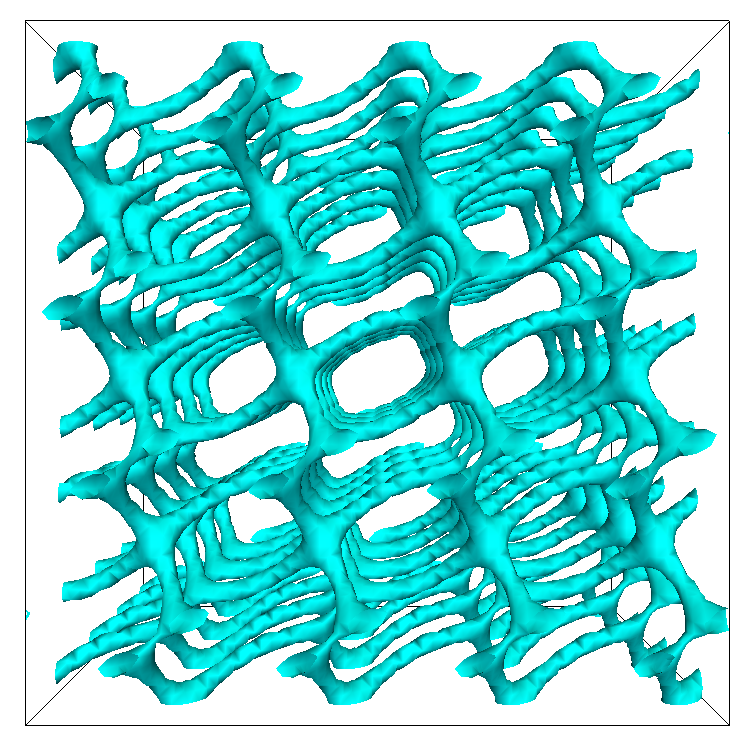
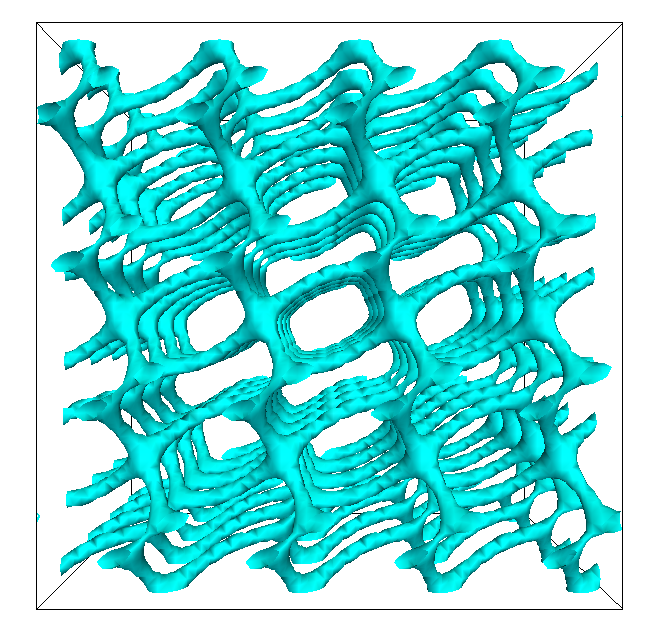
(Partly) updated pictures
git-svn-id: https://ccpforge.cse.rl.ac.uk/svn/ludwig/trunk@1805 40876441-3496-0410-a613-a2fca35b2ae2

diff --git a/papers/bprheo/bprheo.tex b/papers/bprheo/bprheo.tex
@@ -425,9 +425,9 @@ reconnect further downstream forming a periodically recurring pattern with
 recurrence time $\tau_F=1/\gd$ in flow direction.
 
 \begin{figure}[htpb]
-\includegraphics[width=0.4\textwidth]{disc-160k_run902.png}
-\includegraphics[width=0.4\textwidth]{disc-164k_run902.png}
-\includegraphics[width=0.4\textwidth]{disc-165k_run902.png}
+\includegraphics[width=0.41\textwidth]{disc-160k_run902.png}
+\includegraphics[width=0.41\textwidth]{disc-164k_run902.png}
+\includegraphics[width=0.41\textwidth]{disc-165k_run902.png}
 \caption{Disclination network of BPII in shear flow: 
 The pictures show a typical sequence of snapshots in the steady state 
 at $\gd=1.56\e{-4}$ and time steps $t=1.60, 1.64,1.65\e{5}$. The velocity 
@@ -814,10 +814,10 @@ were identical to the smaller run with 8 unit cells. The shear rate was $\gd=7.8
 
 \begin{figure}[htpb]
 %\includegraphics[width=0.4\textwidth]{dir+z-300k_run916.png}
-\includegraphics[width=0.4\textwidth]{dir+z-301k_run916.png}
-\includegraphics[width=0.4\textwidth]{dir+z-302k_run916.png}
+%\includegraphics[width=0.4\textwidth]{dir+z-301k_run916.png}
+\includegraphics[width=0.4\textwidth]{dir3d-z-302k_run916.png}
 \caption{Director field of BPI at high shear rate: The pictures show a slice 
-of $L_x\times L_y = 64\times64$ lattice sites along the vorticity direction 
+of $L_x\times L_y \times L_Z= 32\times32\times 32$ lattice sites along the vorticity direction 
 with the flow/gradient direction oriented along the horizontal/vertical axis. 
 The colour code gives the magnitude of the in-plane component of the director field. 
 The data is translationally invariant in vorticity direction.}
@@ -840,6 +840,13 @@ Interestingly the critical shear rate for the break-up lies in the same
 window as that of transition between BPII-1 and BPII-2, 
  $3.125\e{-4}\le\gd_c\le 6.25\e{-4}$ and occurs at similar 
 Ericksen numbers ${\it Er}\simeq 10$.
+
+\subsection{Transition to 1D Uniaxial Twist}
+
+
+
+\subsection{Uncoiling Transition to Nematic State} 
+
 
 \clearpage
 
